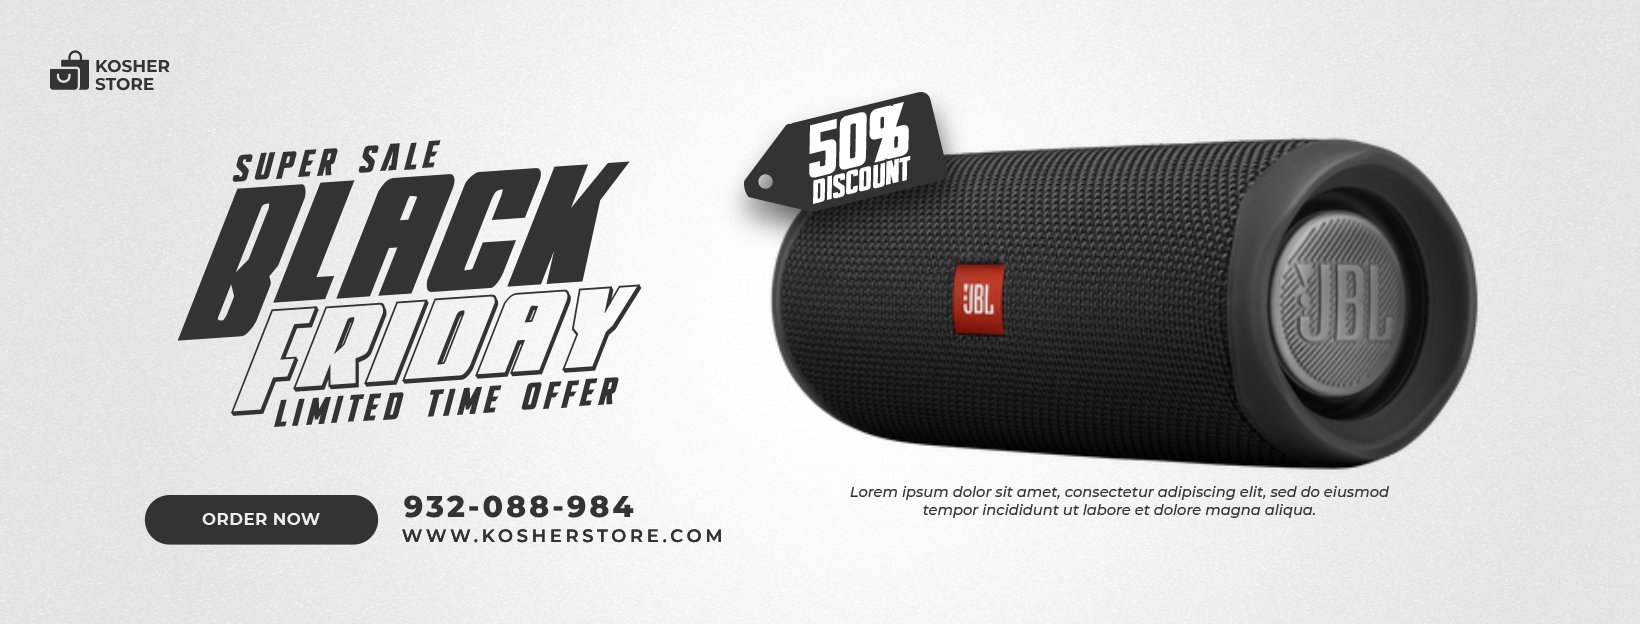
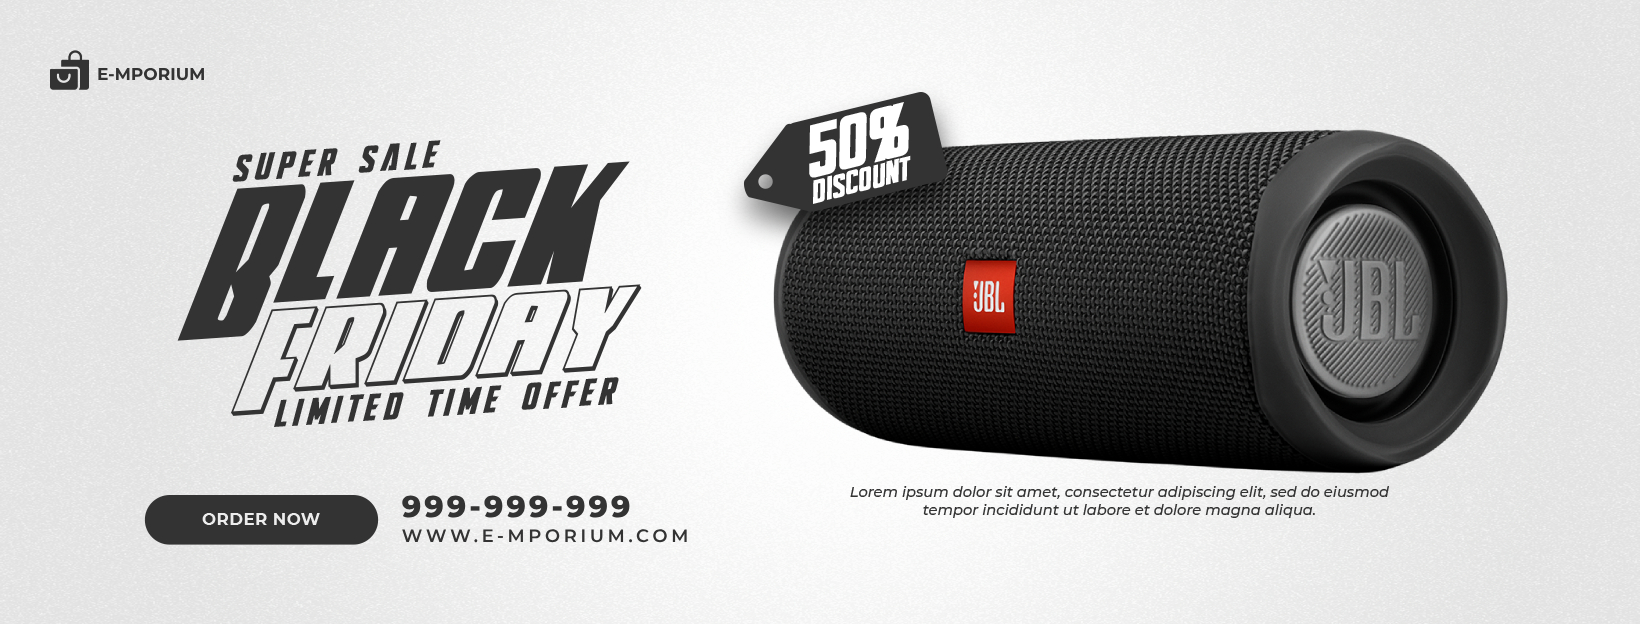
chore(home) : update hero image

diff --git a/src/components/footer/Footer.jsx b/src/components/footer/Footer.jsx
@@ -9,7 +9,7 @@ export default function Footer() {
       <Container>
         <FooterGrid>
           <FooterList>
-            <h3>ShokerStore</h3>
+            <h3>E-mporium</h3>
             <ul>
               <li>
                 <p>
